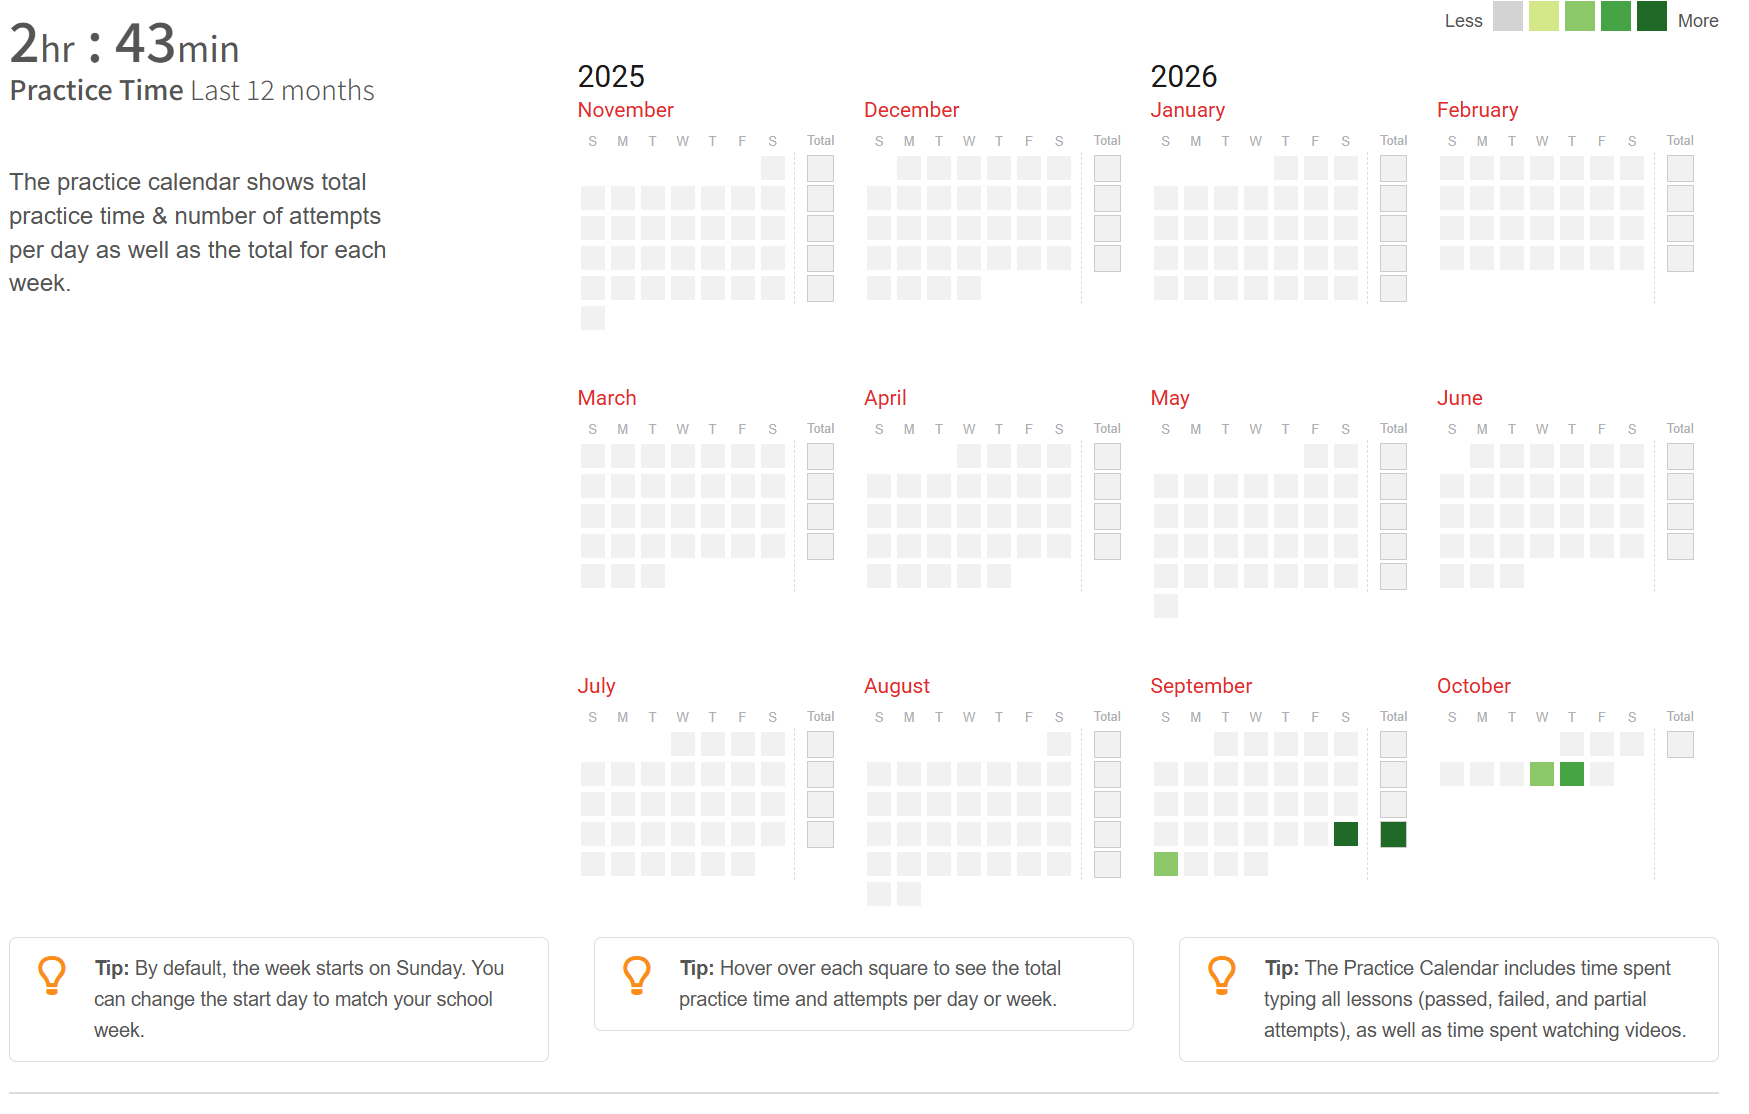
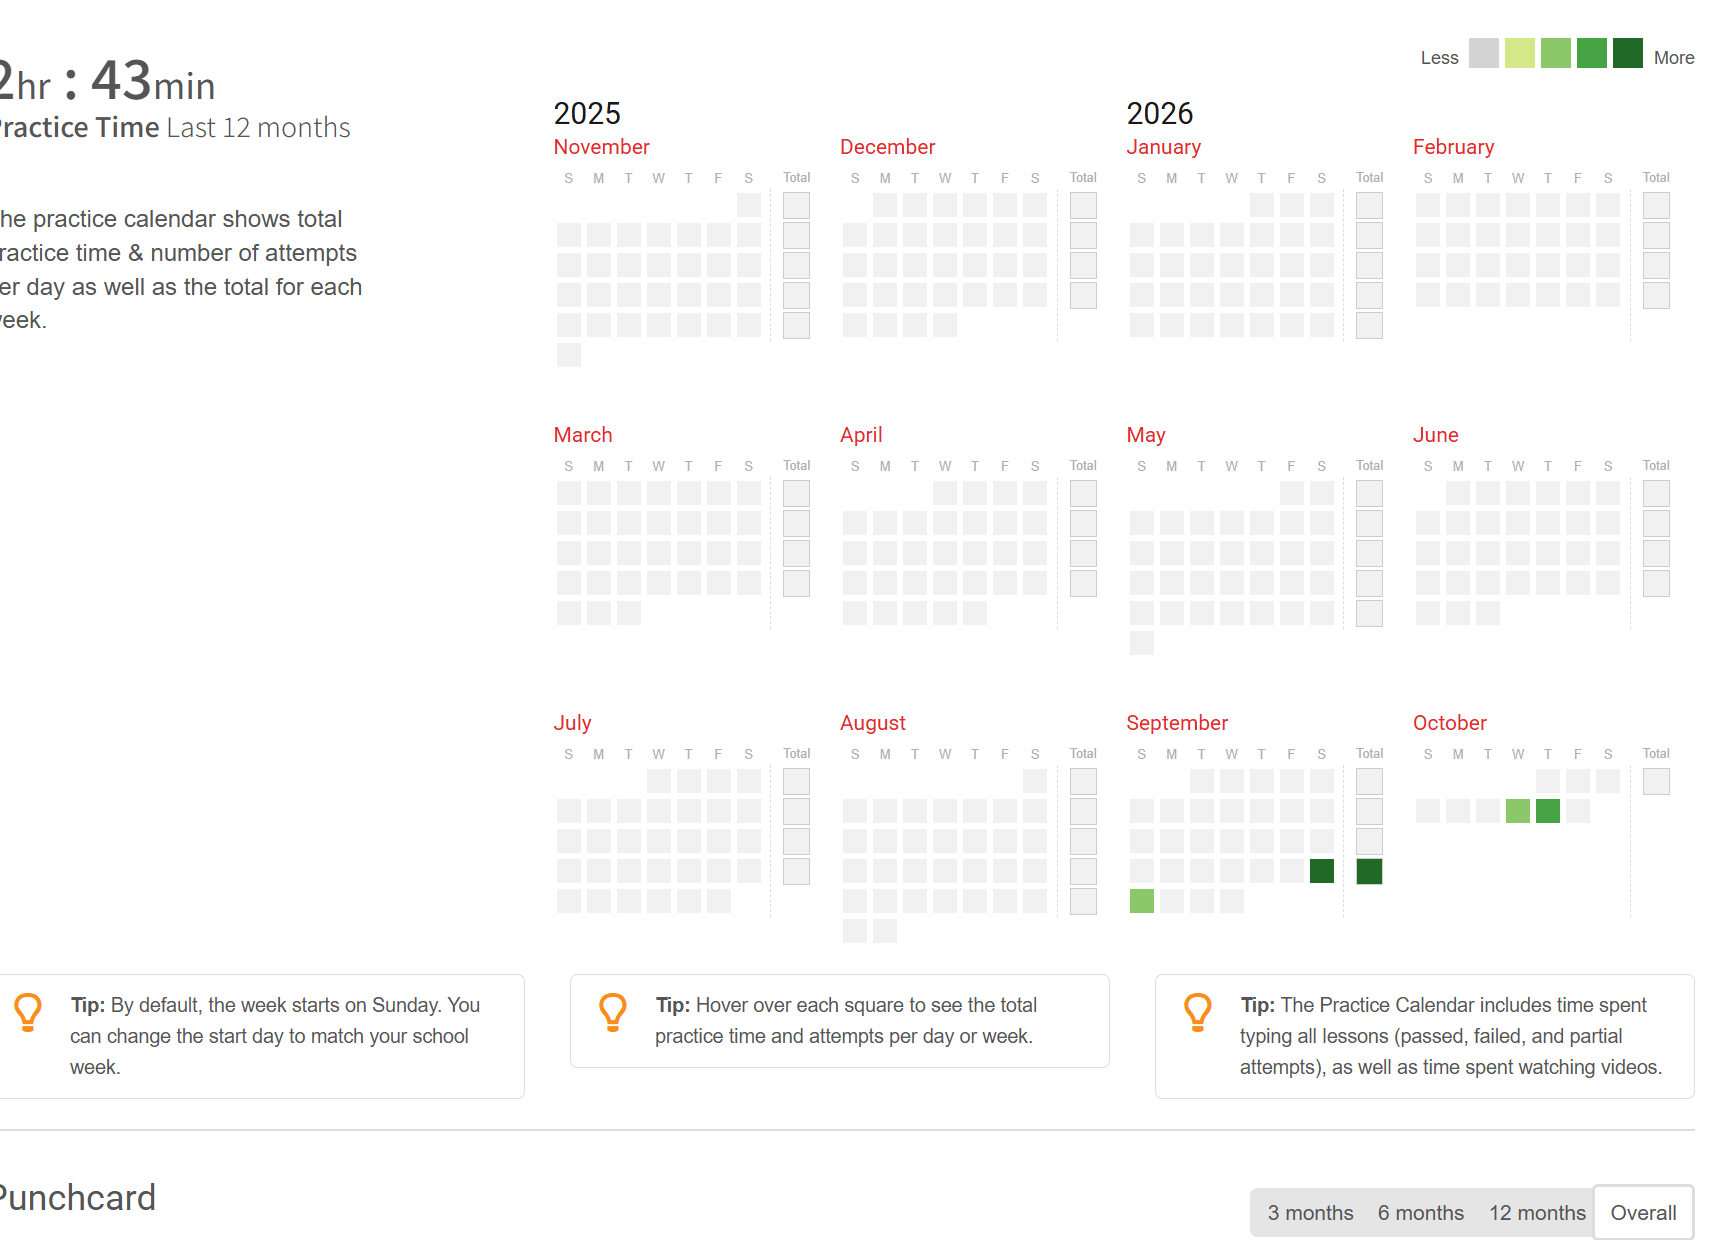
lab1

diff --git a/2060110033刘正康/Lab1/Lab1.md b/2060110033刘正康/Lab1/Lab1.md
@@ -20,8 +20,8 @@
 
 | 项目 | 内容 |
 | --- | --- |
-| 姓名 | 刘正康|
-| 学号 | 2026010033 |
+| 姓名 | （填写） |
+| 学号 | （填写 10 位学号） |
 
 ---
 
